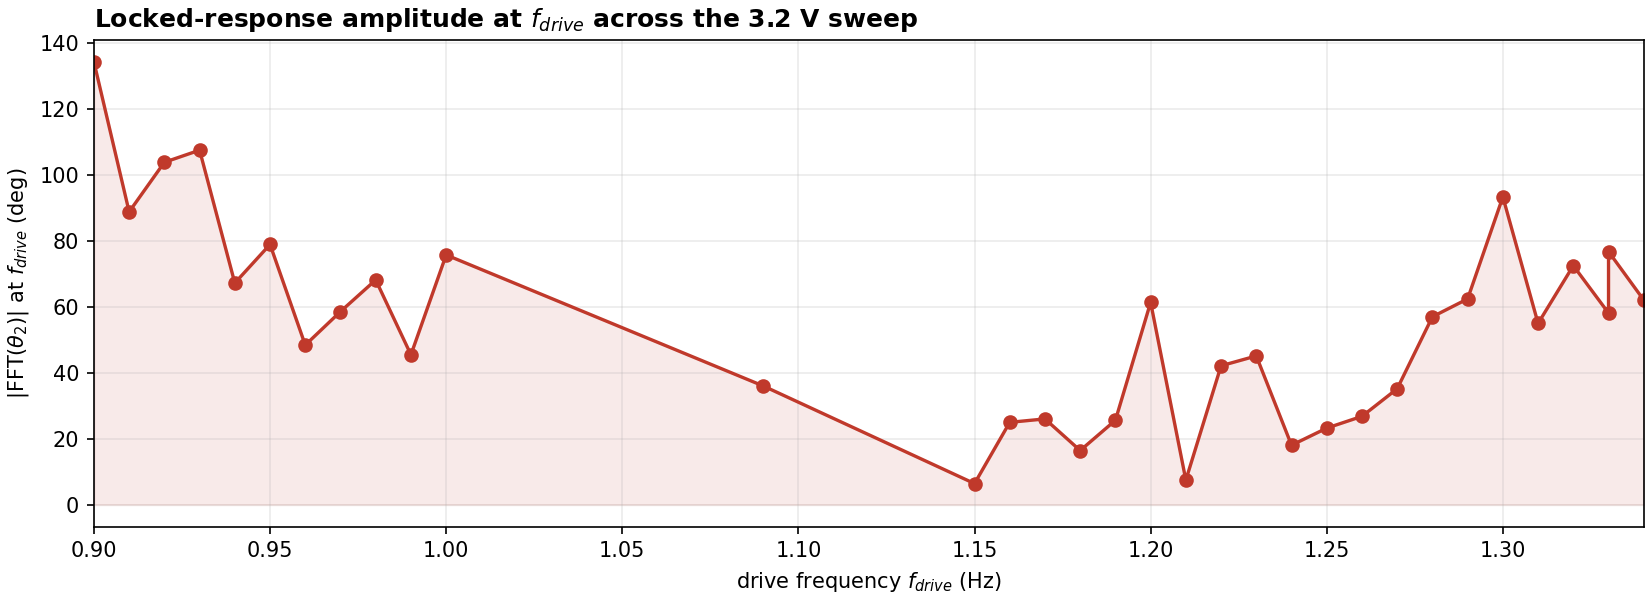
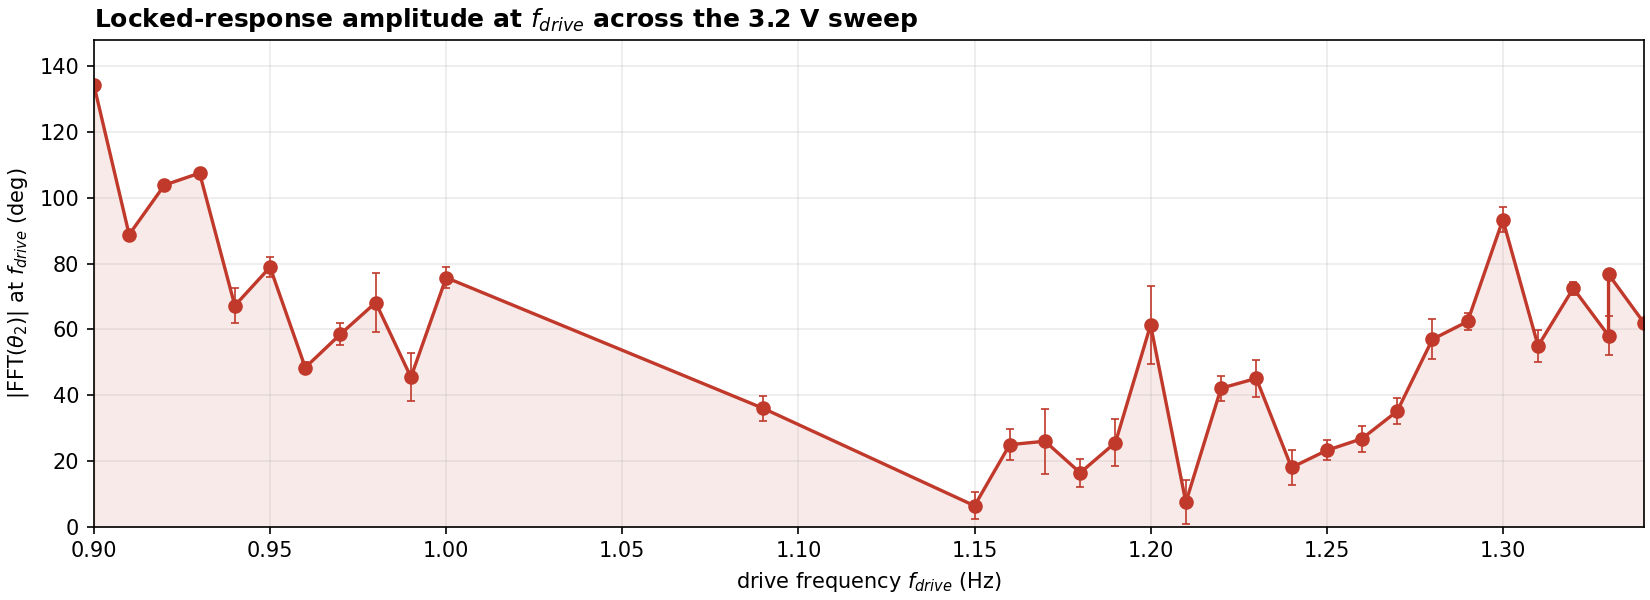
reports/final: Welch-SEM error bars on the spectral-amplitude companion
The locked-response amplitude |FFT(theta2)| at f_drive is a 1-D scalar-per-clip
curve, so it earns a bar. A single periodogram has no built-in error; split the
steady-state tail into n_seg (default 6) independent sub-records, read the
f_drive amplitude in each, bar = std/sqrt(K). Small at the locked ends, larger
through the chaotic core where the line leaks into a broadband continuum.

--n-seg / --no-errors added. Script now also prints the FFT resolution
Df = 1/T (~0.017 Hz) for the waterfall captions. Heatmap unchanged (kept dry,
no on-plot text).

diff --git a/reports/final/scripts/spectral_waterfall.py b/reports/final/scripts/spectral_waterfall.py
@@ -58,6 +58,31 @@ def load_theta2(stem):
     return np.asarray(t, float), np.asarray(th, float)
 
 
+def amp_at(x, dt, fd):
+    """Locked-response amplitude |FFT(x)| at f = fd (deg), single periodogram."""
+    x = x - np.mean(x)
+    a = (2.0 / len(x)) * np.abs(np.fft.rfft(x))
+    ff = np.fft.rfftfreq(len(x), d=dt)
+    return float(interp1d(ff, a, bounds_error=False, fill_value=0.0)(fd))
+
+
+def locked_amp_error(x, dt, fd, n_seg):
+    """SEM of the locked-response amplitude at f_drive, from a Welch-style split.
+
+    A single periodogram has no built-in error. Splitting the steady-state tail
+    into ``n_seg`` independent contiguous sub-records, reading the amplitude at
+    f_drive in each, and taking std/√K gives the sampling uncertainty of the
+    full-record estimate (the full record IS the K segments, so var(mean) ≈
+    σ²_seg/K). Returns NaN if the window is too short to split. Small at the
+    locked ends; larger through the chaotic core where the line leaks into a
+    broadband continuum that scatters segment to segment."""
+    n = len(x) // n_seg
+    if n < 8:
+        return float("nan")
+    vals = [amp_at(x[i * n:(i + 1) * n], dt, fd) for i in range(n_seg)]
+    return float(np.std(vals, ddof=1) / np.sqrt(len(vals))) if len(vals) >= 2 else float("nan")
+
+
 def parse_args():
     p = argparse.ArgumentParser(description="Report spectral-waterfall heatmap.")
     p.add_argument("--window", type=float, default=60.0,
@@ -65,6 +90,10 @@ def parse_args():
     p.add_argument("--fmax", type=float, default=3.0,
                    help="max response frequency on the y-axis (Hz, default 3)")
     p.add_argument("--nfreq", type=int, default=800, help="response-frequency bins")
+    p.add_argument("--n-seg", type=int, default=6,
+                   help="Welch segments for the companion's amplitude SEM (default 6)")
+    p.add_argument("--no-errors", action="store_true",
+                   help="companion: draw a plain line without error bars")
     p.add_argument("--out", default=os.path.join(FIGURES_DIR, "spectral_waterfall_3.2V.png"))
     p.add_argument("--out-companion",
                    default=os.path.join(FIGURES_DIR, "spectral_amplitude_3.2V.png"),
@@ -76,7 +105,8 @@ def main():
     args = parse_args()
     stems = list_clips()                                    # freq-sorted
     unified = np.linspace(0.01, args.fmax, args.nfreq)      # common y-axis
-    drive, Z, amp_fd = [], [], []
+    drive, Z, amp_fd, amp_fd_err = [], [], [], []
+    Tmin = np.inf                                           # shortest record used
     for stem in stems:
         t, th2 = load_theta2(stem)
         t, th2 = tail_window(t, th2, window_s=args.window)
@@ -85,6 +115,7 @@ def main():
         x = th2 - np.mean(th2)                              # remove DC offset
         dt = float(np.median(np.diff(t)))
         N = len(x)
+        Tmin = min(Tmin, N * dt)
         amp = (2.0 / N) * np.abs(np.fft.rfft(x))
         xf = np.fft.rfftfreq(N, d=dt)
         col = interp1d(xf, amp, kind="linear", bounds_error=False,
@@ -93,10 +124,14 @@ def main():
         fd = stem_freq(stem)
         drive.append(fd)
         # response amplitude locked to the drive: |FFT(θ₂)| at f = f_drive
+        # (full-window value) + its Welch-segment sampling SEM.
         amp_fd.append(float(interp1d(xf, amp, bounds_error=False, fill_value=0.0)(fd)))
+        amp_fd_err.append(locked_amp_error(x, dt, fd, args.n_seg))
     X = np.asarray(drive)
     Z = np.asarray(Z).T                                    # (freq, clip)
     amp_fd = np.asarray(amp_fd)
+    amp_fd_err = np.asarray(amp_fd_err)
+    df_res = 1.0 / args.window                              # FFT resolution Δf = 1/T
 
     fig, ax = plt.subplots(figsize=(11, 7), constrained_layout=True)
     vmax = float(np.percentile(Z, 99.9))
@@ -127,16 +162,23 @@ def main():
     # response is concentrated at the drive (regular ends); it dips through the
     # chaotic core, where energy leaks into a broadband continuum.
     fig2, axc = plt.subplots(figsize=(11, 4), constrained_layout=True)
-    axc.plot(X, amp_fd, "o-", color="#c0392b", lw=1.6)
+    yerr = None if args.no_errors else amp_fd_err
+    axc.errorbar(X, amp_fd, yerr=yerr, fmt="o-", color="#c0392b", lw=1.6,
+                 capsize=2, elinewidth=0.8, capthick=0.8)
     axc.fill_between(X, 0, amp_fd, color="#c0392b", alpha=0.10)
     axc.set_xlabel("drive frequency $f_{drive}$ (Hz)")
     axc.set_ylabel(r"$|\mathrm{FFT}(\theta_2)|$ at $f_{drive}$ (deg)")
     axc.set_title(r"Locked-response amplitude at $f_{drive}$ across the 3.2 V sweep",
                   loc="left", fontweight="bold")
     axc.set_xlim(X.min(), X.max()); axc.grid(alpha=0.25)
+    top = np.nanmax(amp_fd + (0.0 if args.no_errors else np.nan_to_num(amp_fd_err)))
+    axc.set_ylim(0, float(top) * 1.10)
     fig2.savefig(args.out_companion, dpi=150)
     plt.close(fig2)
-    print(f"{len(X)} clips  ->  {args.out}\n           ->  {args.out_companion}")
+    print(f"{len(X)} clips  Δf = 1/T = {df_res:.4f} Hz "
+          f"(shortest record {Tmin:.0f}s → Δf ≤ {1.0/Tmin:.4f} Hz);  "
+          f"companion err = Welch-SEM over {args.n_seg} segments")
+    print(f"  ->  {args.out}\n  ->  {args.out_companion}")
 
 
 if __name__ == "__main__":
